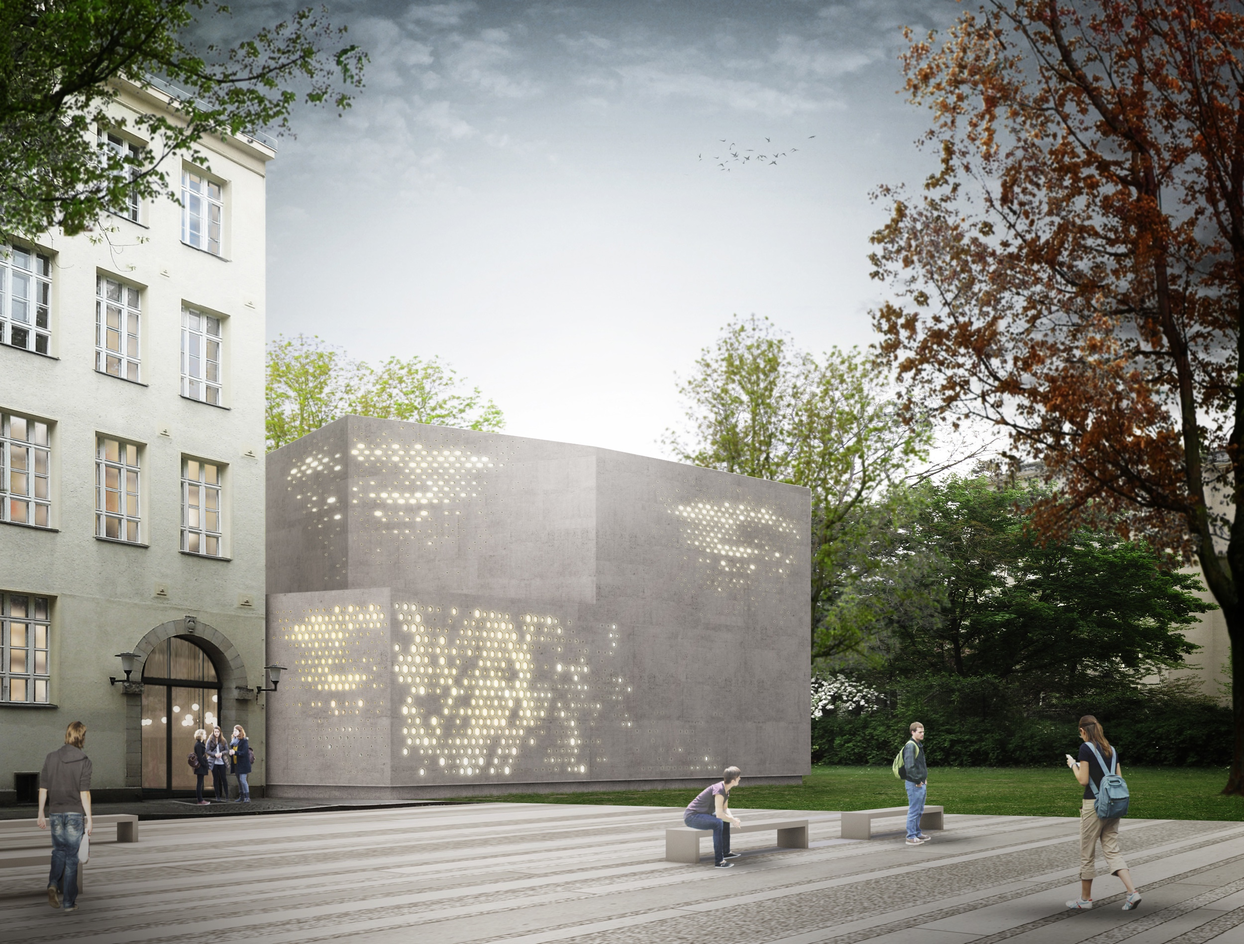
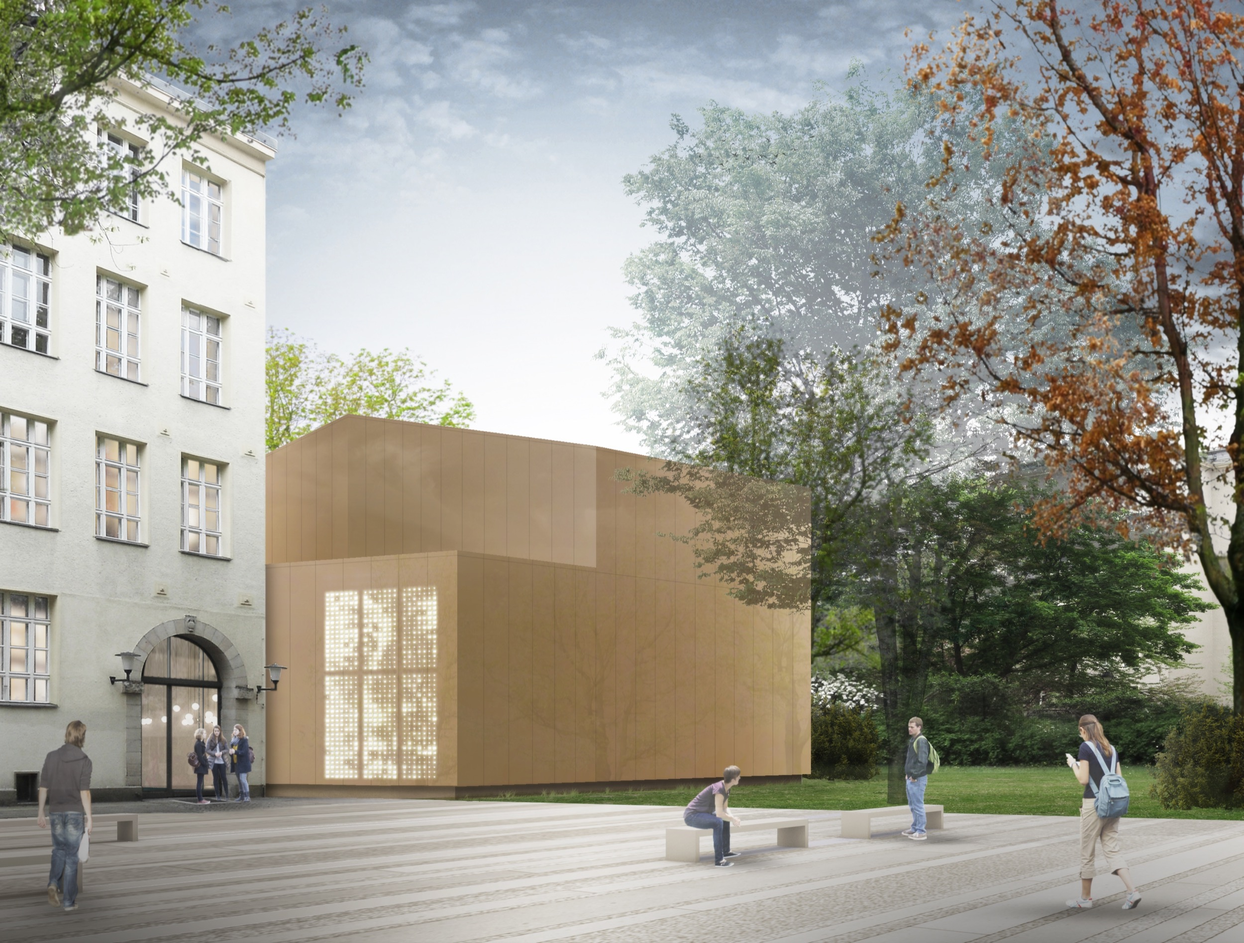
Neue Bilder für GFH_Konzertaula

diff --git a/projekte/_posts/2013-06-18-GFH_Konzertaula.md b/projekte/_posts/2013-06-18-GFH_Konzertaula.md
@@ -14,6 +14,8 @@ images:
 - /projekte/GFH_Konzertaula/01.jpg
 - /projekte/GFH_Konzertaula/02.jpg
 - /projekte/GFH_Konzertaula/03.jpg
+- /projekte/GFH_Konzertaula/04.jpg
+- /projekte/GFH_Konzertaula/05.jpg
 captions:
 - Baustelle
 - Außenperspektive
